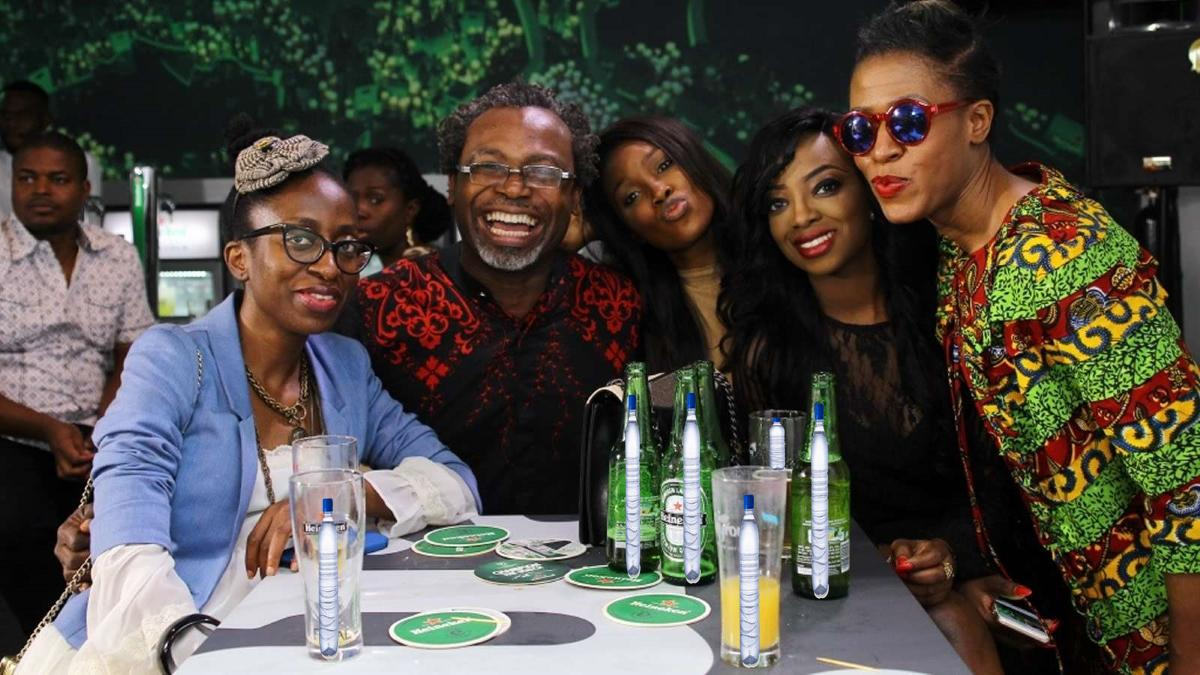
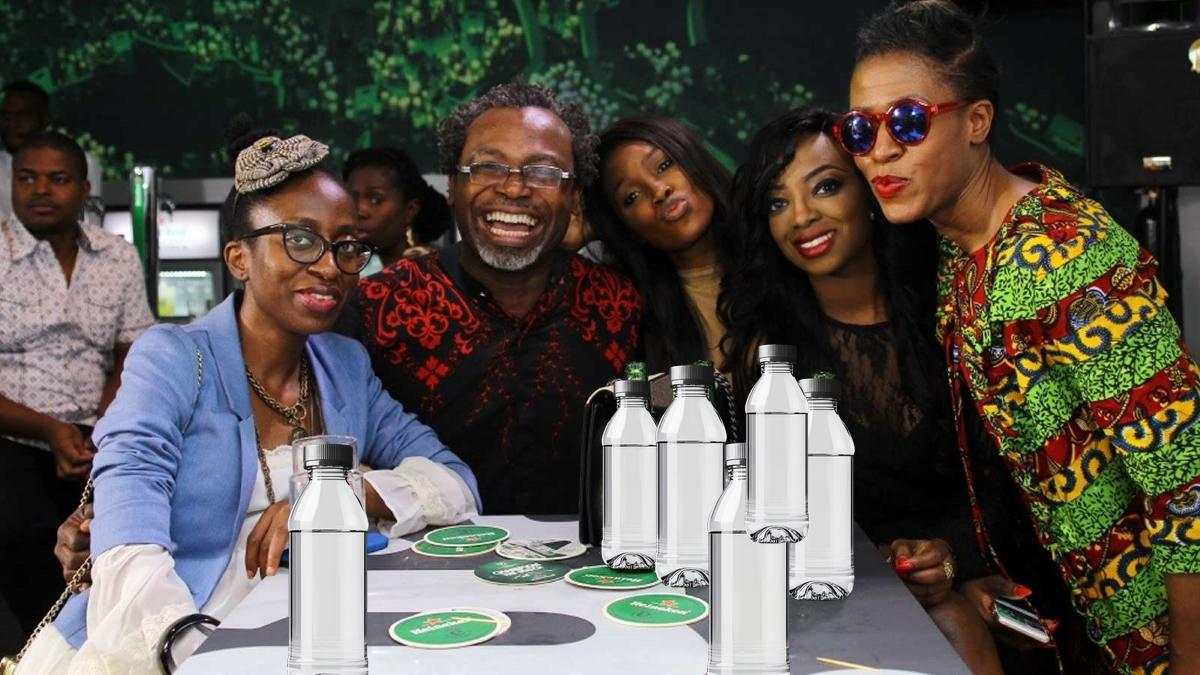
feat(recognition): add correct scaling

Changed region(s): [[0.4933, 0.4978, 0.7092, 1.0], [0.2158, 0.6533, 0.3083, 1.0]]

diff --git a/object-recognition-service/image_utils.py b/object-recognition-service/image_utils.py
@@ -2,7 +2,6 @@ from PIL import Image
 import numpy as np
 
 def overlay_water_bottle(background_image, box_coordinates):
-    # Handle both file path and numpy array inputs
     if isinstance(background_image, str):
         background = Image.open(background_image).convert('RGBA')
     else:
@@ -12,10 +11,24 @@ def overlay_water_bottle(background_image, box_coordinates):
     water_bottle = Image.open(water_bottle_path).convert('RGBA')
 
     x1, y1, x2, y2 = map(int, box_coordinates)
-    target_width = x2 - x1
-    target_height = y2 - y1
+    base_width = (x2 - x1)
+    base_height = (y2 - y1)
 
-    water_bottle = water_bottle.resize((target_width, target_height), Image.Resampling.LANCZOS)
-    background.paste(water_bottle, (x1, y1), water_bottle)
+    scaling_factor = 4
+    target_width = int(base_width * scaling_factor)
+    target_height = int(base_height * scaling_factor)
+
+    aspect_ratio = water_bottle.width / water_bottle.height
+    if target_width / target_height > aspect_ratio:
+        target_width = int(target_height * aspect_ratio)
+    else:
+        target_height = int(target_width / aspect_ratio)
+
+    water_bottle_resized = water_bottle.resize((target_width, target_height), Image.Resampling.LANCZOS)
+
+    paste_x = x1 + (x2 - x1 - target_width) // 2
+    paste_y = y1 + (y2 - y1 - target_height) // 2
+
+    background.paste(water_bottle_resized, (paste_x, paste_y), water_bottle_resized)
 
     return np.array(background)
